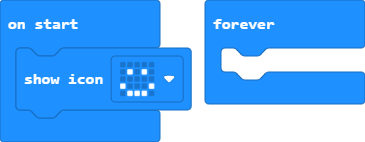
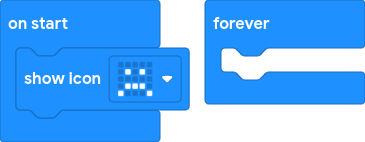
Sad

Changed region(s): [[0.0603, 0.338, 0.5425, 0.7887], [0.0, 0.1127, 0.211, 0.2254], [0.5726, 0.1127, 0.7534, 0.2254]]

diff --git a/main.ts b/main.ts
@@ -1,4 +1,4 @@
-basic.showIcon(IconNames.Happy)
+basic.showIcon(IconNames.Sad)
 basic.forever(function () {
 	
 })
